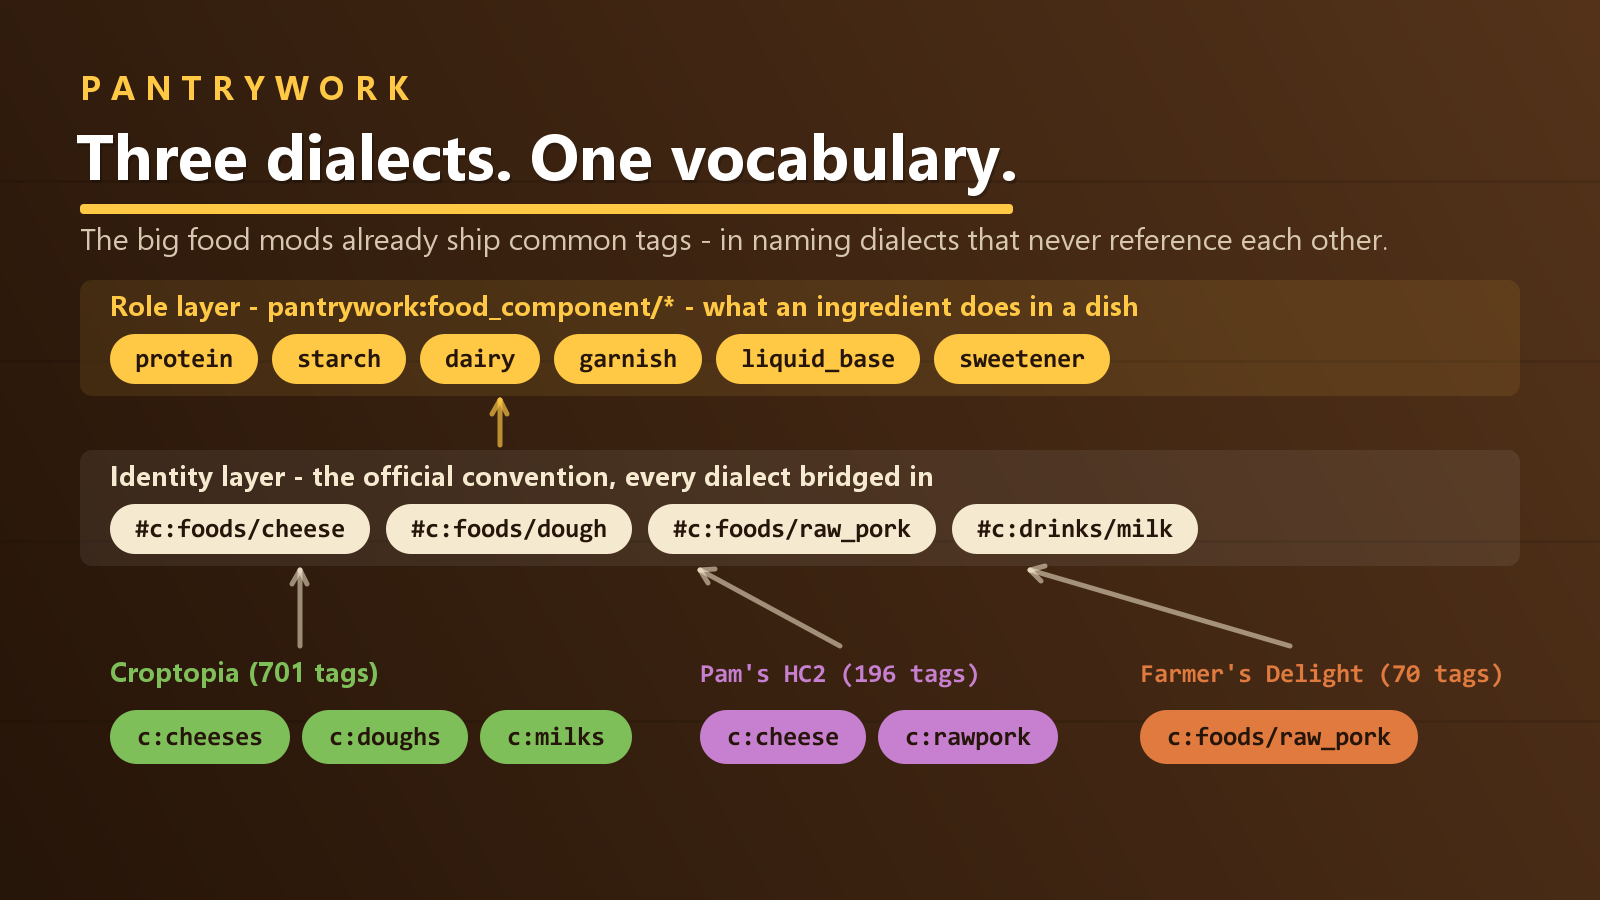
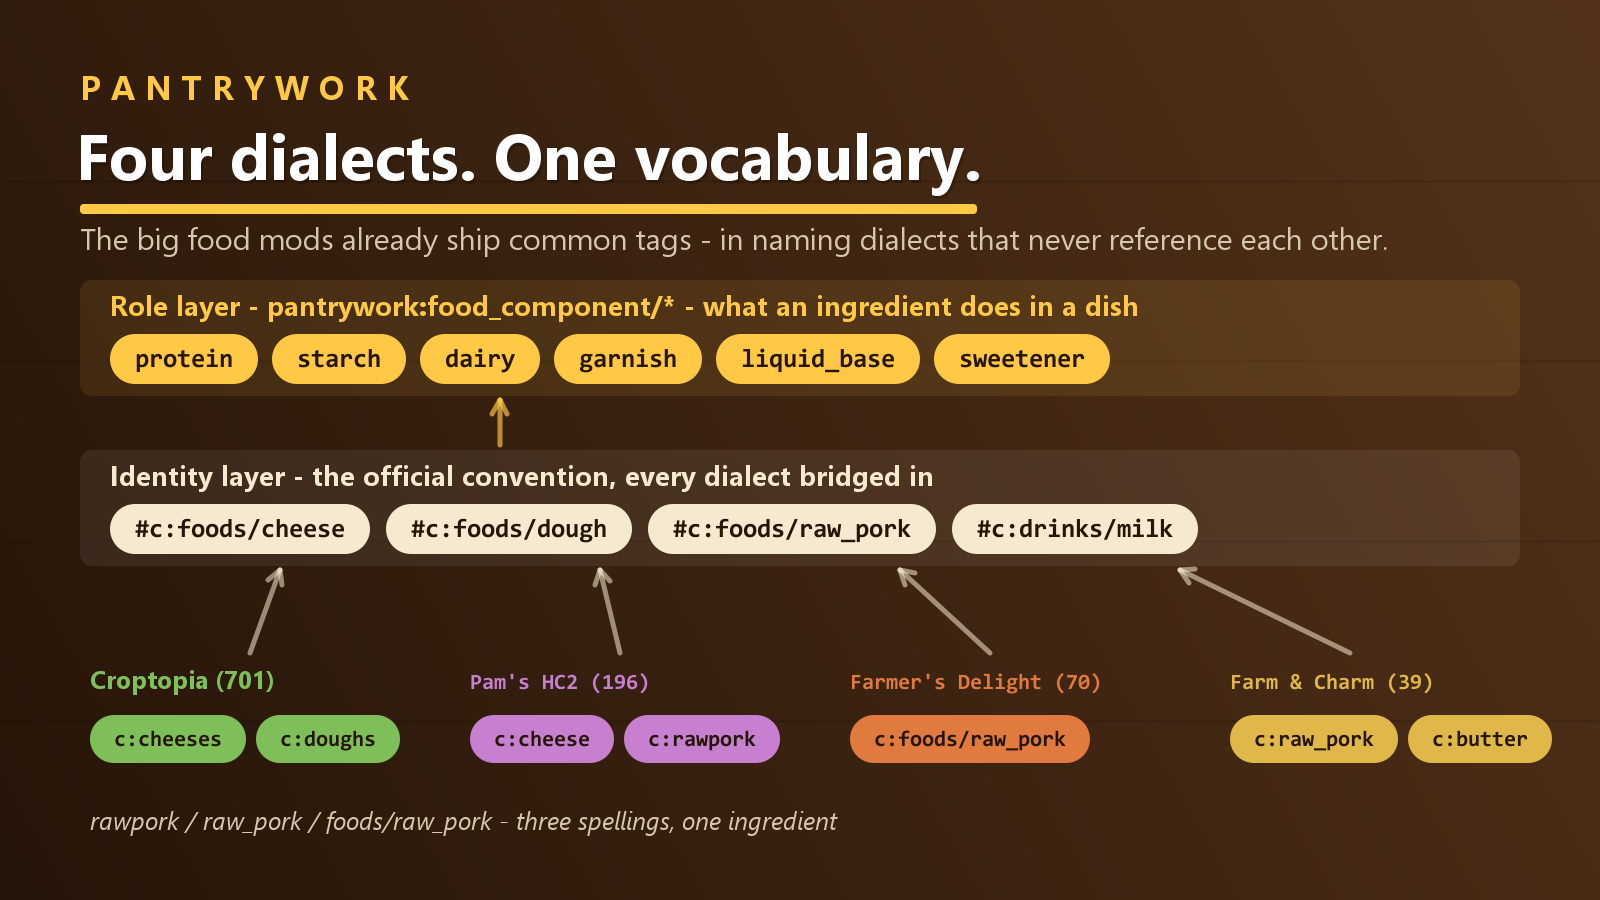
Refresh promo art for the ten-mod roster (0.3.0)
Fixes stale claims baked into the gallery: gallery-1 said three dialects
(Farm & Charm made it four) and the banner said NeoForge 1.21.1 only (we
ship Fabric and 26.x too). Adds gallery-4, the supported-mod roster, and
widens the protein lineup to six sources including Aquaculture and Meadow.
Banner now shows four mods cheeses converging on one tag.

FOOD_MOD_COUNT/DIALECT_COUNT constants added so the counts have one home;
PUBLISHING.md records which images need re-uploading and that gallery
uploads are manual (version-scoped PAT gets 401 on the gallery API).

diff --git a/tools/GenPromo.java b/tools/GenPromo.java
@@ -35,6 +35,16 @@ public class GenPromo {
     static final Color C_PAMS    = new Color(0xC77FD0);
     static final Color C_ENDS    = new Color(0x9B6BD8);
     static final Color C_OCEANS  = new Color(0x5FB7D4);
+    static final Color C_VINERY  = new Color(0xB0455F);
+    static final Color C_FARM    = new Color(0xE0B84A);
+    static final Color C_MEADOW  = new Color(0x6FA88C);
+    static final Color C_AQUA    = new Color(0x3E7BB8);
+    static final Color C_BREW    = new Color(0xB07A35);
+
+    // Bumped whenever a compat module ships. Baked into gallery art, so it must
+    // be re-checked every release - images can't be grepped when they go stale.
+    static final int FOOD_MOD_COUNT = 10;
+    static final int DIALECT_COUNT = 4;
 
     static final String TEX = "tools/work/tex/";
 
@@ -48,11 +58,12 @@ public class GenPromo {
             System.out.println("done");
             return;
         }
-        write(icon(),       "promo/icon-512.png");
-        write(banner(),     "promo/banner-1920x640.png");
-        write(galleryTag(), "promo/gallery-1-one-tag.png");
+        write(icon(),        "promo/icon-512.png");
+        write(banner(),      "promo/banner-1920x640.png");
+        write(galleryTag(),  "promo/gallery-1-one-tag.png");
         write(galleryCraft(),"promo/gallery-2-four-mod-craft.png");
         write(galleryRole(), "promo/gallery-3-role-tags.png");
+        write(galleryRoster(),"promo/gallery-4-supported-mods.png");
         System.out.println("done");
     }
 
@@ -283,26 +294,31 @@ public class GenPromo {
         g.drawString("One cheese. Every recipe.", 100, 410);
         g.setFont(new Font("Segoe UI", Font.PLAIN, 34));
         g.setColor(BODY);
-        g.drawString("The food-mod interop layer for NeoForge 1.21.1", 100, 470);
+        g.drawString("The food-mod interop layer - NeoForge & Fabric", 100, 470);
 
-        // right: three dialect cheeses converge into one canonical tag
-        int cx = 1250, s = 120;
-        int[] ys = {90, 260, 430};
-        BufferedImage[] items = {tex("cheese"), tex("cheeseitem"), tex("wheat_dough")};
-        Color[] mods = {C_CROP, C_PAMS, C_FD};
-        String[] labels = {"c:cheeses", "c:cheese", "c:foods/dough/wheat"};
-        for (int i = 0; i < 3; i++) {
+        // right: four mods' cheeses converge into one canonical tag. Labelled by
+        // mod rather than tag - several of them legitimately use the same tag
+        // name, so tag labels would read as duplicates.
+        int cx = 1210, s = 108;
+        int[] ys = {60, 200, 340, 480};
+        BufferedImage[] items = {tex("cheese"), tex("cheeseitem"),
+                                 tex("meadow__cheese_slice"), tex("brewinandchewin__flaxen_cheese_wheel")};
+        Color[] mods = {C_CROP, C_PAMS, C_MEADOW, C_BREW};
+        String[] labels = {"Croptopia", "Pam's HC2", "Meadow", "Brewin' & Chewin'"};
+        for (int i = 0; i < items.length; i++) {
             slotItem(g, items[i], mods[i], cx, ys[i], s);
-            g.setFont(new Font("Consolas", Font.PLAIN, 26));
+            g.setFont(new Font("Segoe UI", Font.BOLD, 24));
             g.setColor(mods[i]);
-            g.drawString(labels[i], cx - g.getFontMetrics().stringWidth(labels[i]) - 18, ys[i] + s / 2 + 8);
-            arrow(g, new Color(245, 233, 208, 150), cx + s + 14, ys[i] + s / 2, 1560, 320);
+            g.drawString(labels[i], cx - g.getFontMetrics().stringWidth(labels[i]) - 28, ys[i] + s / 2 + 9);
+            arrow(g, new Color(245, 233, 208, 150), cx + s + 14, ys[i] + s / 2, 1556, 320);
         }
-        tagShape(g, AMBER, 1585, 250, 290, 140);
-        g.setFont(new Font("Consolas", Font.BOLD, 34));
+        tagShape(g, AMBER, 1580, 248, 310, 144);
+        g.setFont(new Font("Consolas", Font.BOLD, 29));
         g.setColor(BG_DARK);
-        g.drawString("#c:foods", 1668, 310);
-        g.drawString("one tag", 1672, 352);
+        g.drawString("#c:foods", 1688, 302);
+        g.drawString("/cheese", 1694, 338);
+        g.setFont(new Font("Segoe UI", Font.BOLD, 21));
+        g.drawString("one tag", 1698, 372);
         g.dispose();
         return img;
     }
@@ -315,26 +331,31 @@ public class GenPromo {
         Graphics2D g = canvas(img);
         pantryBackground(g, W, H);
         eyebrow(g, "PANTRYWORK", 80, 100);
-        headline(g, "Three dialects. One vocabulary.", 76, 180, 64);
+        headline(g, "Four dialects. One vocabulary.", 76, 180, 64);
         g.setFont(new Font("Segoe UI", Font.PLAIN, 30));
         g.setColor(BODY);
         g.drawString("The big food mods already ship common tags - in naming dialects that never reference each other.", 80, 250);
 
-        // bottom: dialect chips, three fixed lanes with measured widths
-        int rowY = 710;
-        int[] laneX = {110, 700, 1140};
-        Color[] laneC = {C_CROP, C_PAMS, C_FD};
-        String[] laneName = {"Croptopia (701 tags)", "Pam's HC2 (196 tags)", "Farmer's Delight (70 tags)"};
-        String[][] laneChips = {{"c:cheeses", "c:doughs", "c:milks"},
+        // bottom: dialect chips, four fixed lanes with measured widths
+        int rowY = 715;
+        int[] laneX = {90, 470, 850, 1230};
+        Color[] laneC = {C_CROP, C_PAMS, C_FD, C_FARM};
+        String[] laneName = {"Croptopia (701)", "Pam's HC2 (196)", "Farmer's Delight (70)", "Farm & Charm (39)"};
+        String[][] laneChips = {{"c:cheeses", "c:doughs"},
                                 {"c:cheese", "c:rawpork"},
-                                {"c:foods/raw_pork"}};
-        g.setFont(new Font("Segoe UI", Font.BOLD, 28));
-        for (int i = 0; i < 3; i++) {
+                                {"c:foods/raw_pork"},
+                                {"c:raw_pork", "c:butter"}};
+        g.setFont(new Font("Segoe UI", Font.BOLD, 25));
+        for (int i = 0; i < laneX.length; i++) {
             g.setColor(laneC[i]);
-            g.drawString(laneName[i], laneX[i], rowY - 28);
+            g.drawString(laneName[i], laneX[i], rowY - 26);
             int cx2 = laneX[i];
-            for (String c : laneChips[i]) cx2 += chip(g, c, laneC[i], BG_DARK, cx2, rowY, 54, 26) + 12;
+            for (String c : laneChips[i]) cx2 += chip(g, c, laneC[i], BG_DARK, cx2, rowY, 48, 22) + 10;
         }
+        // the punchline: three of those mean the same thing
+        g.setFont(new Font("Segoe UI", Font.ITALIC, 25));
+        g.setColor(BODY);
+        g.drawString("rawpork / raw_pork / foods/raw_pork - three spellings, one ingredient", 90, 830);
 
         // middle: canonical band
         int midY = 470;
@@ -361,9 +382,10 @@ public class GenPromo {
         for (String r : roles) x += chip(g, r, AMBER, BG_DARK, x, topY + 34, 50, 26) + 14;
 
         // arrows dialect -> canonical -> role
-        arrow(g, new Color(245, 233, 208, 140), 300, rowY - 64, 300, midY + 100);
-        arrow(g, new Color(245, 233, 208, 140), 840, rowY - 64, 700, midY + 100);
-        arrow(g, new Color(245, 233, 208, 140), 1290, rowY - 64, 1030, midY + 100);
+        arrow(g, new Color(245, 233, 208, 140), 250, rowY - 62, 280, midY + 100);
+        arrow(g, new Color(245, 233, 208, 140), 620, rowY - 62, 600, midY + 100);
+        arrow(g, new Color(245, 233, 208, 140), 990, rowY - 62, 900, midY + 100);
+        arrow(g, new Color(245, 233, 208, 140), 1350, rowY - 62, 1180, midY + 100);
         arrow(g, new Color(255, 200, 69, 170), 500, midY - 25, 500, topY + 100);
         g.dispose();
         return img;
@@ -420,6 +442,66 @@ public class GenPromo {
         return img;
     }
 
+    // ---- gallery 4: the supported-mod roster ------------------------------
+
+    static BufferedImage galleryRoster() throws Exception {
+        int W = 1600, H = 900;
+        BufferedImage img = new BufferedImage(W, H, BufferedImage.TYPE_INT_RGB);
+        Graphics2D g = canvas(img);
+        pantryBackground(g, W, H);
+        eyebrow(g, "PANTRYWORK", 80, 100);
+        headline(g, "Ten food mods bridged.", 76, 180, 64);
+        g.setFont(new Font("Segoe UI", Font.PLAIN, 30));
+        g.setColor(BODY);
+        g.drawString("Install all of them, a few of them, or none - Pantrywork bridges whatever it finds.", 80, 250);
+
+        String[][] roster = {
+            {"cheese",                              "Croptopia"},
+            {"cheeseitem",                          "Pam's HarvestCraft 2"},
+            {"cooked_bacon",                        "Farmer's Delight"},
+            {"cooked_guardian_tail",                "Ocean's Delight"},
+            {"roasted_dragon_meat",                 "End's Delight"},
+            {"vinery__red_grape",                   "Let's Do Vinery"},
+            {"farm_and_charm__butter",              "Let's Do Farm & Charm"},
+            {"meadow__cheese_slice",                "Let's Do Meadow"},
+            {"aquaculture__atlantic_cod",           "Aquaculture 2"},
+            {"brewinandchewin__flaxen_cheese_wheel","Brewin' & Chewin'"}
+        };
+        Color[] cols = {C_CROP, C_PAMS, C_FD, C_OCEANS, C_ENDS,
+                        C_VINERY, C_FARM, C_MEADOW, C_AQUA, C_BREW};
+
+        int cols5 = 5, s = 112, gapX = 300, x0 = 118, y0 = 340, gapY = 250;
+        for (int i = 0; i < roster.length; i++) {
+            int cx = x0 + (i % cols5) * gapX;
+            int cy = y0 + (i / cols5) * gapY;
+            slotItem(g, tex(roster[i][0]), cols[i], cx, cy, s);
+            // name wraps onto a second line when it is too wide for the column
+            g.setFont(new Font("Segoe UI", Font.BOLD, 22));
+            String name = roster[i][1];
+            java.util.List<String> lines = new java.util.ArrayList<>();
+            if (g.getFontMetrics().stringWidth(name) <= 250) {
+                lines.add(name);
+            } else {
+                int cut = name.lastIndexOf(' ', name.length() / 2 + 4);
+                if (cut < 0) cut = name.indexOf(' ');
+                lines.add(name.substring(0, cut));
+                lines.add(name.substring(cut + 1));
+            }
+            int ty = cy + s + 34;
+            for (String ln : lines) {
+                g.setColor(CREAM);
+                g.drawString(ln, cx + (s - g.getFontMetrics().stringWidth(ln)) / 2, ty);
+                ty += 26;
+            }
+        }
+
+        g.setFont(new Font("Segoe UI", Font.ITALIC, 26));
+        g.setColor(BODY);
+        g.drawString("Plus Origins diet compat - carnivores and vegetarians can finally eat modded food.", 118, 852);
+        g.dispose();
+        return img;
+    }
+
     // ---- gallery 3: role tags for recipe authors --------------------------
 
     static BufferedImage galleryRole() throws Exception {
@@ -467,17 +549,18 @@ public class GenPromo {
         g.setFont(new Font("Segoe UI", Font.PLAIN, 30));
         g.setColor(BODY);
         g.drawString("accepts, today:", ax, ay + 44);
-        BufferedImage[] prot = {tex("cooked_beef"), tex("cooked_chicken"), tex("cooked_bacon"),
-                                tex("roasted_dragon_meat"), tex("cooked_guardian_tail")};
-        Color[] pmods = {C_VANILLA, C_VANILLA, C_FD, C_ENDS, C_OCEANS};
-        String[] pnames = {"Steak", "Chicken", "Bacon", "Dragon meat", "Guardian tail"};
-        int ix = ax, iy = ay + 90, is = 110;
-        g.setFont(new Font("Segoe UI", Font.PLAIN, 22));
+        BufferedImage[] prot = {tex("cooked_beef"), tex("cooked_bacon"), tex("roasted_dragon_meat"),
+                                tex("cooked_guardian_tail"), tex("aquaculture__fish_fillet_cooked"),
+                                tex("meadow__cooked_buffalo_meat")};
+        Color[] pmods = {C_VANILLA, C_FD, C_ENDS, C_OCEANS, C_AQUA, C_MEADOW};
+        String[] pnames = {"Steak", "Bacon", "Dragon", "Guardian", "Fillet", "Buffalo"};
+        int ix = ax, iy = ay + 90, is = 96;
+        g.setFont(new Font("Segoe UI", Font.PLAIN, 20));
         for (int i = 0; i < prot.length; i++) {
             slotItem(g, prot[i], pmods[i], ix, iy, is);
             g.setColor(BODY);
-            g.drawString(pnames[i], ix + (is - g.getFontMetrics().stringWidth(pnames[i])) / 2, iy + is + 30);
-            ix += is + 24;
+            g.drawString(pnames[i], ix + (is - g.getFontMetrics().stringWidth(pnames[i])) / 2, iy + is + 28);
+            ix += is + 18;
         }
         g.setFont(new Font("Segoe UI", Font.BOLD, 30));
         g.setColor(CREAM);

diff --git a/PUBLISHING.md b/PUBLISHING.md
@@ -121,13 +121,24 @@ cross-mod identity, reverse bridges, and recipe resolution through `RecipeManage
 bridged mods' real item textures (extracted to `tools/work/tex/`; re-extract from
 `tools/work/jars/` if missing).
 
-| File | Caption |
-|---|---|
-| `promo/icon-512.png` | Project icon: the `c:` tag + cheese |
-| `promo/banner-1920x640.png` | Header/banner: three dialect cheeses converging into one tag |
-| `promo/gallery-1-one-tag.png` | The two layers: identity tags bridging three dialects, role tags on top |
-| `promo/gallery-2-four-mod-craft.png` | Pam's Grilled Cheese & Ham crafted from four mods' ingredients — the whole pitch in one image |
-| `promo/gallery-3-role-tags.png` | Recipe JSON targeting `#pantrywork:food_component/protein`, beside the items it accepts |
+| File | Caption | Status at 0.3.0 |
+|---|---|---|
+| `promo/icon-512.png` | Project icon: pantry shelf | unchanged |
+| `promo/banner-1920x640.png` | Four mods' cheeses converging into one tag | **REPLACE** — old one said "NeoForge 1.21.1" (now NeoForge & Fabric) and showed 3 mods |
+| `promo/gallery-1-one-tag.png` | The two layers: identity tags bridging four dialects, role tags on top | **REPLACE** — old one said "Three dialects"; Farm & Charm made it four |
+| `promo/gallery-2-four-mod-craft.png` | Pam's Grilled Cheese & Ham crafted from four mods' ingredients — the whole pitch in one image | unchanged |
+| `promo/gallery-3-role-tags.png` | Recipe JSON targeting `#pantrywork:food_component/protein`, beside the items it accepts | **REPLACE** — protein row now shows 6 sources incl. Aquaculture + Meadow |
+| `promo/gallery-4-supported-mods.png` | All ten bridged mods, with the "install all, some, or none" promise | **NEW** |
+
+**Gallery uploads are manual.** The Modrinth PAT used by `publish.ps1` carries version scopes only
+(create/delete versions); the gallery API returns 401 without project-edit scope. CurseForge has no
+public gallery API at all. Either upload on each site by hand, or issue a PAT with project-edit
+scope if you want this scripted later.
+
+**Counts baked into the art** (`FOOD_MOD_COUNT`, `DIALECT_COUNT` in `tools/GenPromo.java`, plus the
+headline strings): re-check these every time a compat module ships — images can't be grepped, so a
+stale count survives silently. This release is the proof: "Three dialects" was wrong the moment
+Farm & Charm landed.
 
 No art carries version-specific claims yet. If a card ever states a mod count or supported-mod
 list, re-check it every release — images can't be grepped and go stale invisibly.
